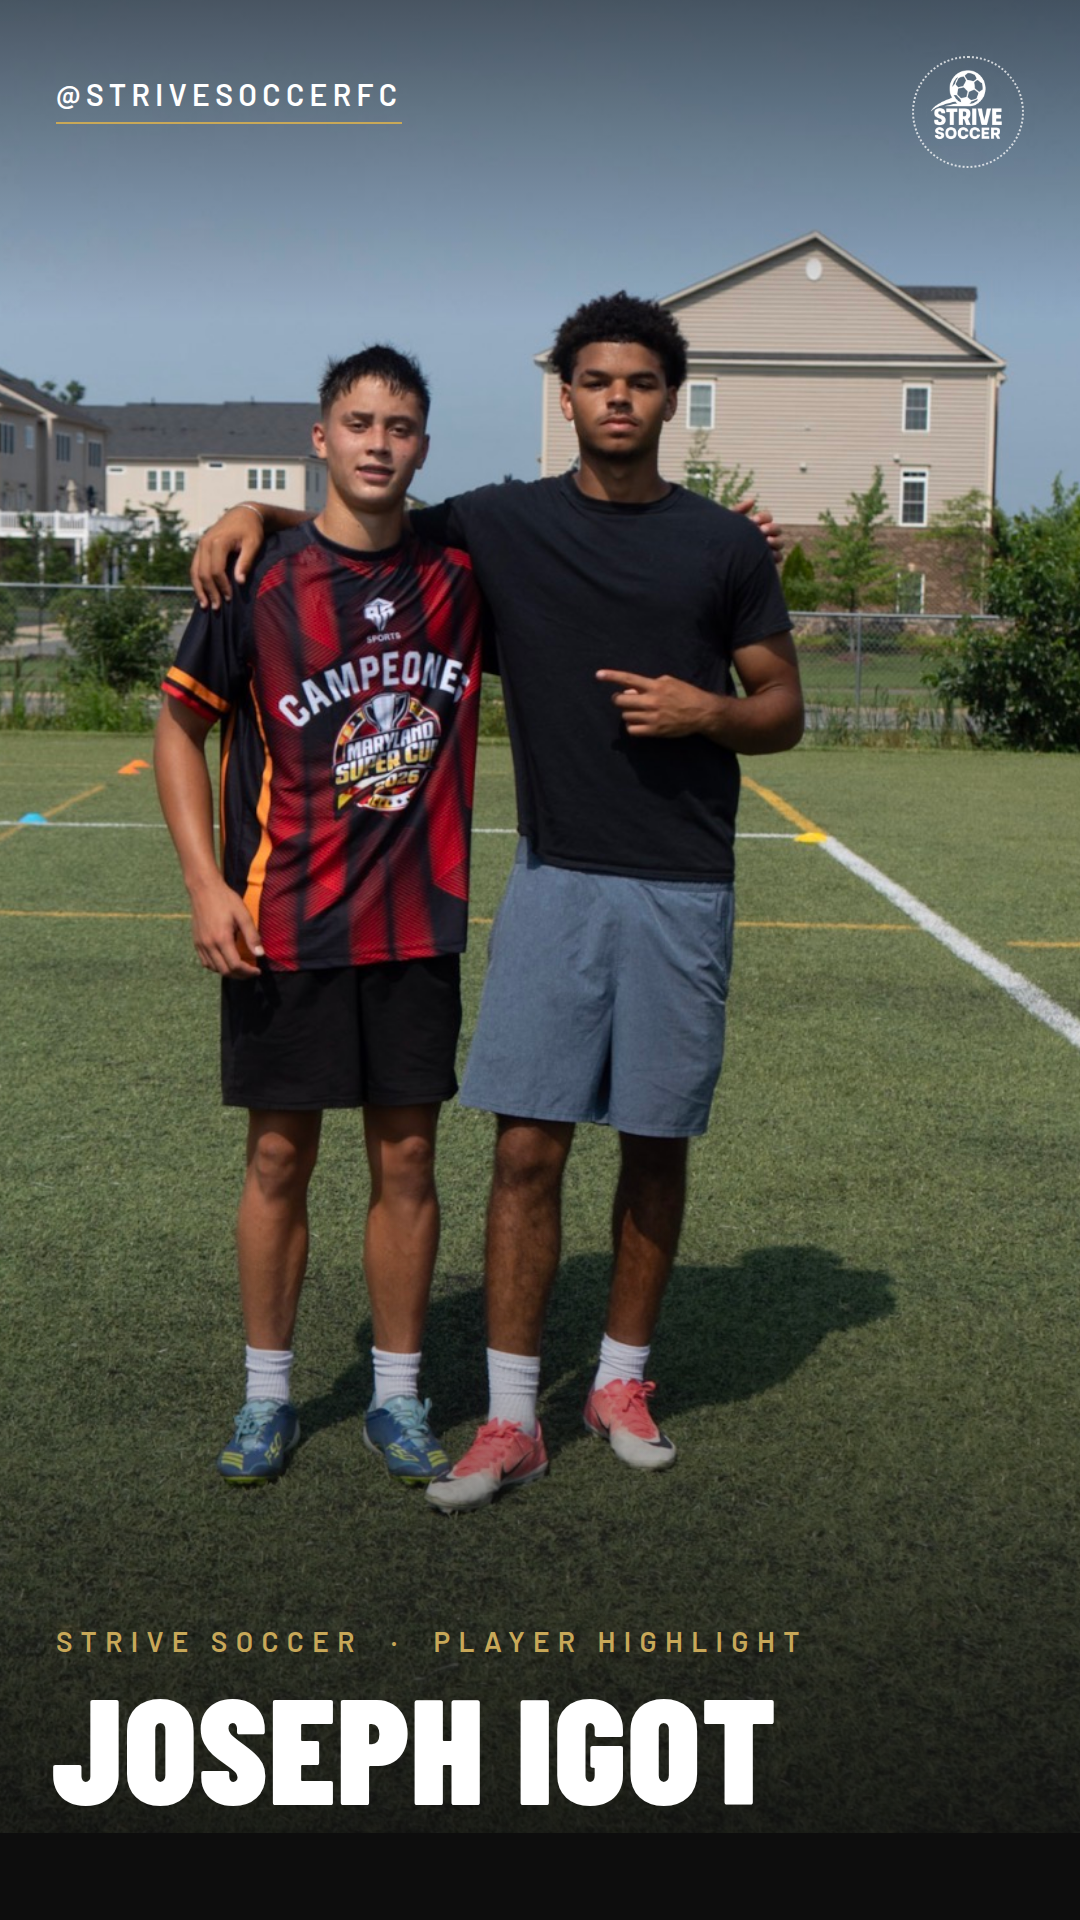
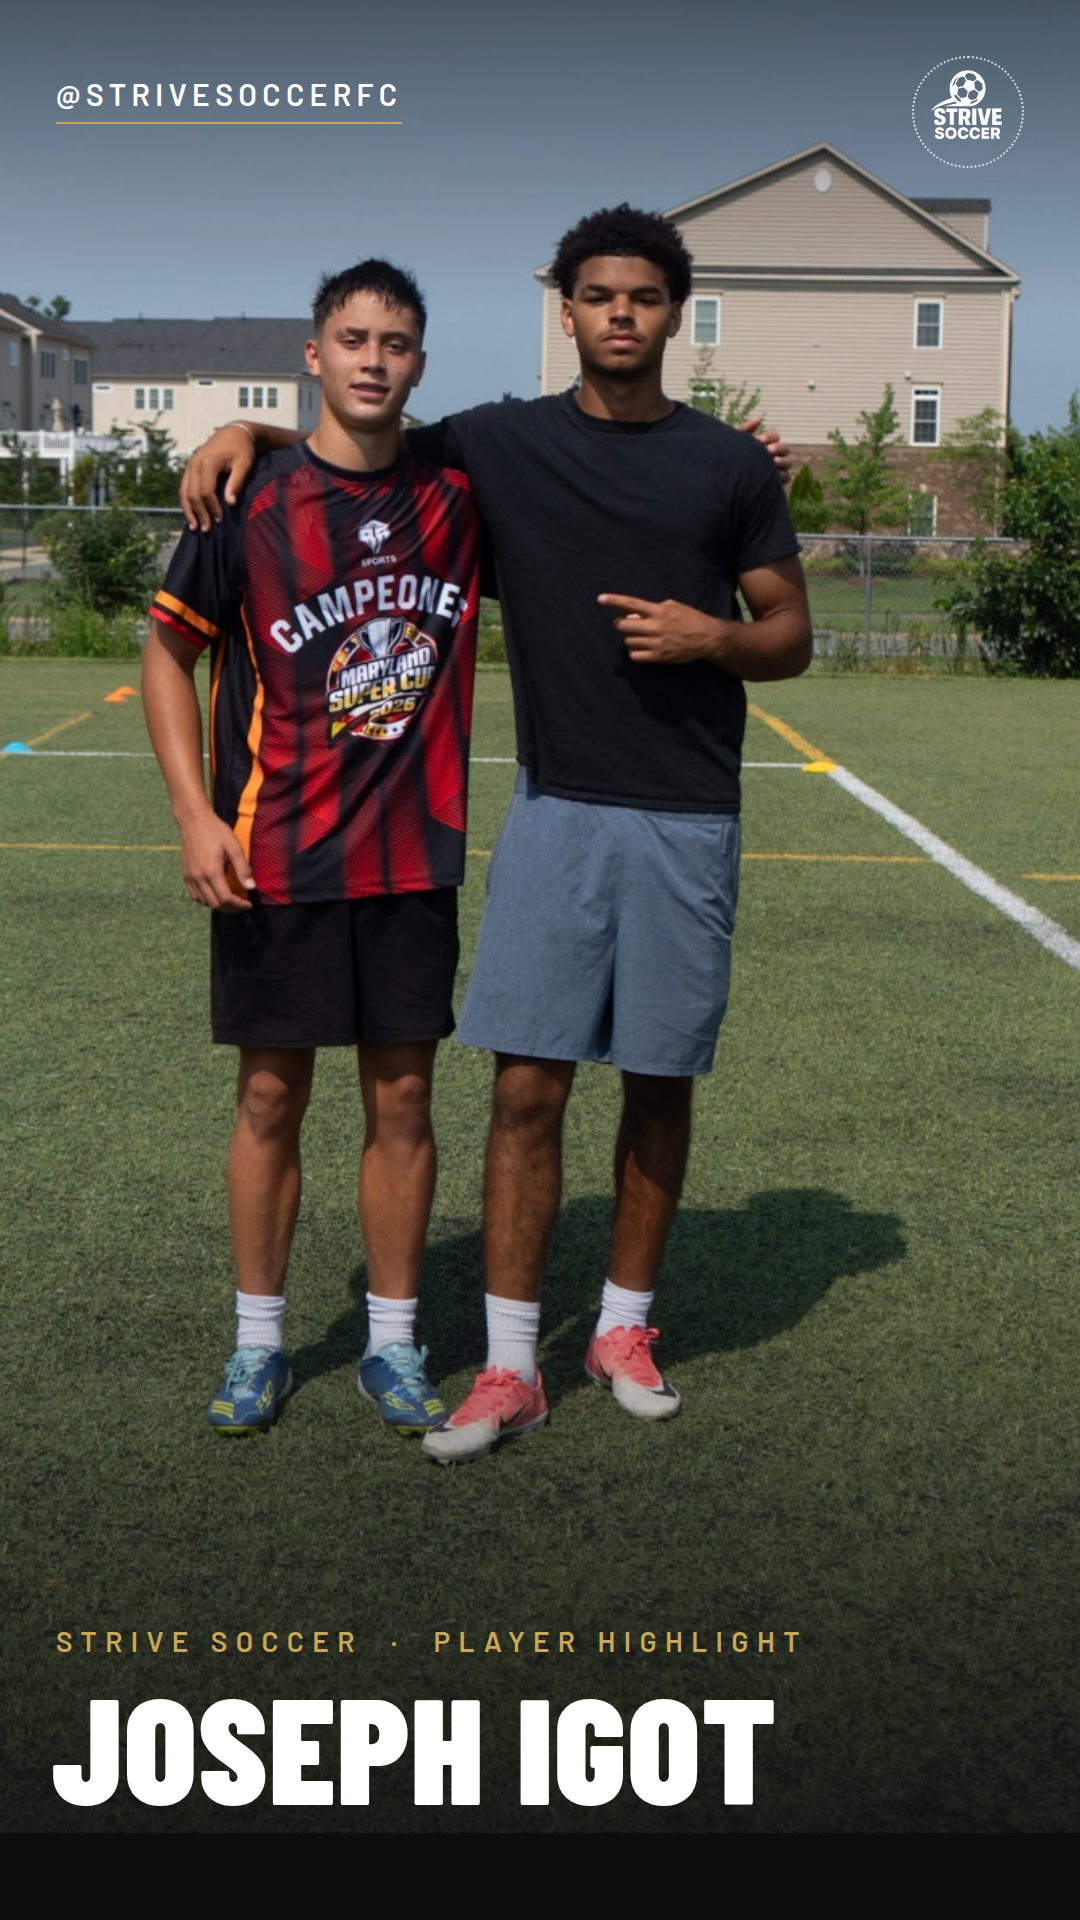
Joseph Igot cover: crop to just above the heads
Claude-Session: https://claude.ai/code/session_011JsCTTjCbUkHbTuWTKQSXJ

diff --git a/marketing/highlights/joseph-igot/cover.html b/marketing/highlights/joseph-igot/cover.html
@@ -5,7 +5,7 @@
 *{margin:0;padding:0;box-sizing:border-box}
 html,body{width:1080px;height:1920px;background:#0d0d0d;overflow:hidden}
 .frame{position:relative;width:1080px;height:1920px;background:#0d0d0d;overflow:hidden}
-.frame>img{position:absolute;left:-90px;top:-250px;width:1260px;height:auto;display:block}
+.frame>img{position:absolute;left:-110px;top:-355px;width:1300px;height:auto;display:block}
 .shade{position:absolute;left:0;right:0;bottom:0;height:720px;
   background:linear-gradient(to top,rgba(13,13,13,.92) 0%,rgba(13,13,13,.6) 40%,rgba(13,13,13,0) 100%)}
 .top{position:absolute;left:0;right:0;top:0;height:320px;
